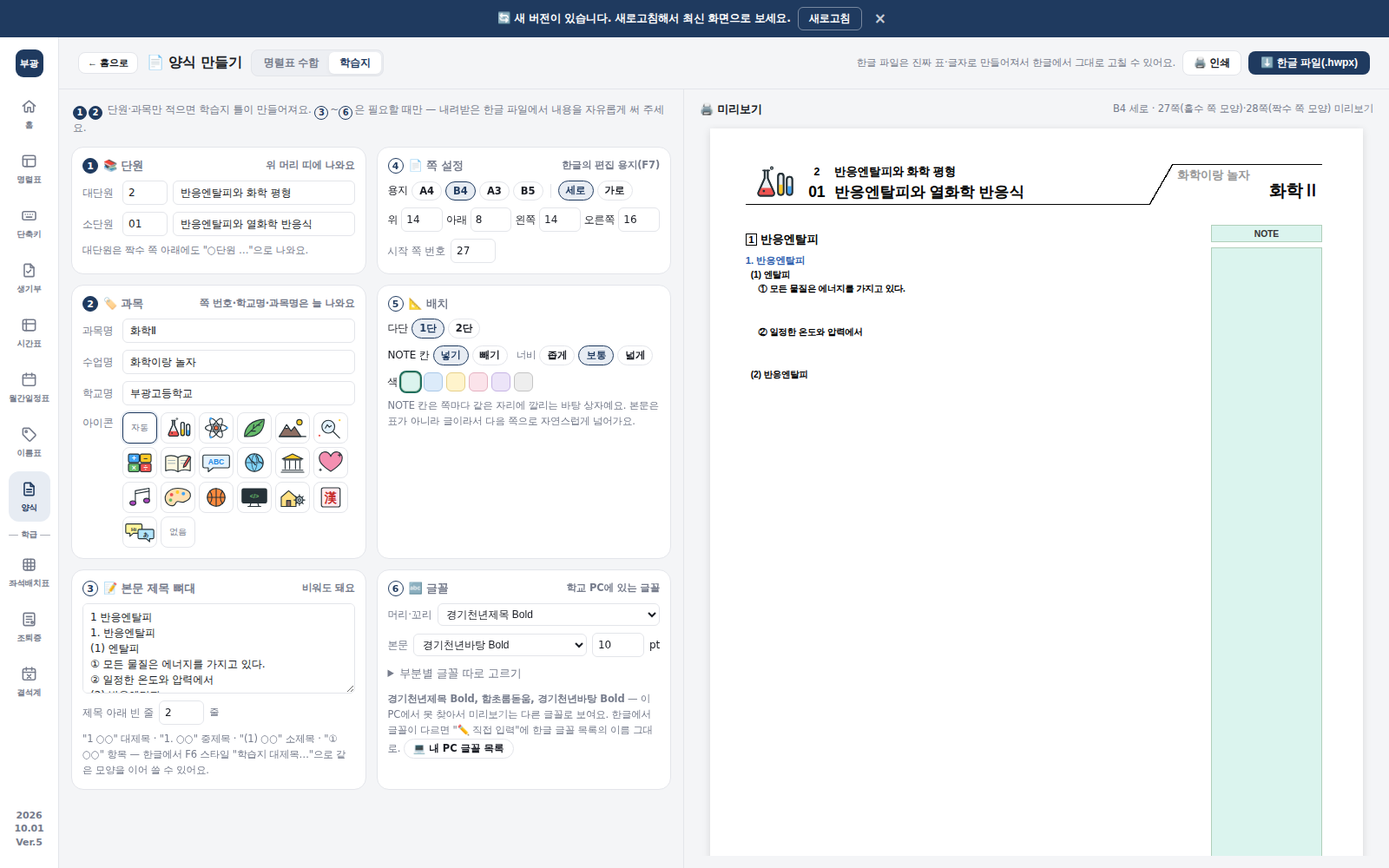
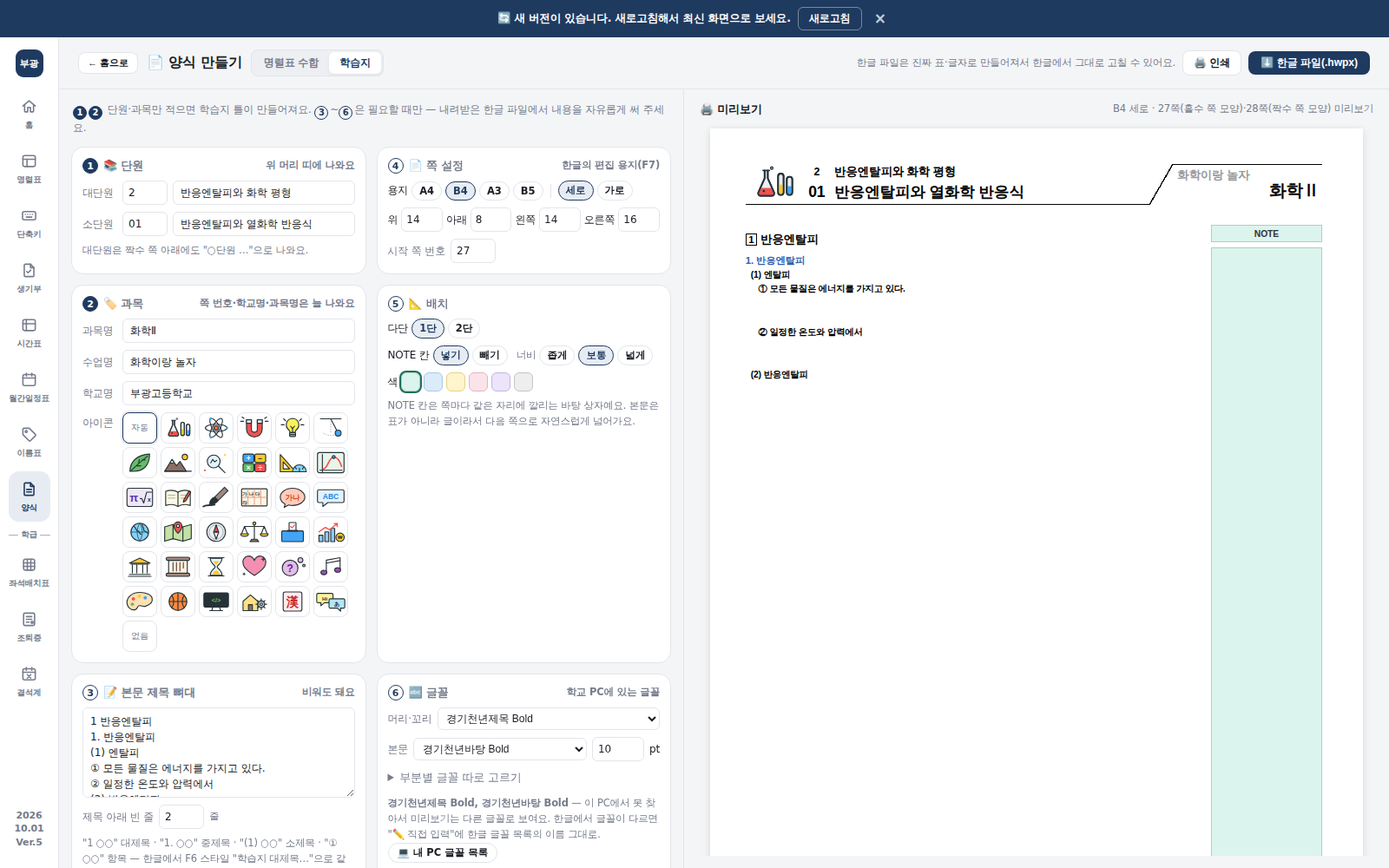
학습지 틀: 2단 가운데 선 있음/없음, 과목 아이콘 17개 추가(물리·수학·국어·지리·일반사회·정치·경제·역사·윤리), 기본 A4·여백 15mm·쪽 번호 글꼴 머리·꼬리와 같게
Claude-Session: https://claude.ai/code/session_01JoAvTsb4Mjqm7XhsGTMKbw

diff --git a/index.html b/index.html
@@ -13052,15 +13052,32 @@
   const WS_ICONS = [
     ['chem', '화학', '<path d="M34 14h16M38 14v20L22 70a6 6 0 0 0 5 8h30a6 6 0 0 0 5-8L46 34V14" fill="#E9EEF1" ' + WS_K + '/><path d="M27 58h30l5 12a6 6 0 0 1-5 8H27a6 6 0 0 1-5-8z" fill="#EF5350"/><path d="M38 14v20L22 70a6 6 0 0 0 5 8h30a6 6 0 0 0 5-8L46 34V14" fill="none" ' + WS_K + '/><rect x="72" y="22" width="14" height="54" rx="7" fill="#E9EEF1" ' + WS_K + '/><path d="M74 50h10v19a5 5 0 0 1-10 0z" fill="#FFCA28"/><rect x="72" y="22" width="14" height="54" rx="7" fill="none" ' + WS_K + '/><rect x="94" y="30" width="14" height="46" rx="7" fill="#E9EEF1" ' + WS_K + '/><path d="M96 54h10v15a5 5 0 0 1-10 0z" fill="#42A5F5"/><rect x="94" y="30" width="14" height="46" rx="7" fill="none" ' + WS_K + '/><circle cx="36" cy="66" r="3" fill="#263238"/><circle cx="56" cy="8" r="3" fill="none" stroke="#263238" stroke-width="3"/>'],
     ['phys', '물리', '<ellipse cx="60" cy="45" rx="44" ry="15" fill="none" ' + WS_K + '/><ellipse cx="60" cy="45" rx="44" ry="15" transform="rotate(60 60 45)" fill="none" ' + WS_K + '/><ellipse cx="60" cy="45" rx="44" ry="15" transform="rotate(-60 60 45)" fill="none" ' + WS_K + '/><circle cx="60" cy="45" r="9" fill="#FF7043" ' + WS_K + '/><circle cx="104" cy="45" r="5" fill="#42A5F5"/><circle cx="38" cy="83" r="5" fill="#42A5F5"/><circle cx="38" cy="7" r="5" fill="#42A5F5"/>'],
+    ['phys2', '물리(자석)', '<path d="M28 12v38a32 32 0 0 0 64 0V12H72v38a12 12 0 0 1-24 0V12z" fill="#EF5350" ' + WS_K + '/><path d="M28 12h20v14H28zM72 12h20v14H72z" fill="#ECEFF1" ' + WS_K + '/><path d="M16 18H4M116 18h-12M18 6l-8-5M102 6l8-5" ' + WS_K + '/>'],
+    ['phys3', '물리(전구)', '<path d="M60 6a26 26 0 0 0-16 46c4 4 6 8 6 12h20c0-4 2-8 6-12A26 26 0 0 0 60 6z" fill="#FFEE58" ' + WS_K + '/><rect x="48" y="64" width="24" height="16" rx="3" fill="#B0BEC5" ' + WS_K + '/><path d="M50 72h20M52 38l8 10 8-10M60 48v16" fill="none" ' + WS_K + '/><path d="M14 32h12M94 32h12M24 8l8 8M96 8l-8 8" ' + WS_K + '/>'],
+    ['phys4', '물리(진자)', '<path d="M18 8h84" ' + WS_K + ' stroke-width="7"/><path d="M60 8v60" stroke="#90A4AE" stroke-width="3" stroke-dasharray="5 5"/><path d="M30 66Q60 86 90 66" fill="none" stroke="#90A4AE" stroke-width="3" stroke-dasharray="5 5"/><path d="M60 8l28 54" ' + WS_K + '/><circle cx="90" cy="66" r="12" fill="#42A5F5" ' + WS_K + '/>'],
     ['bio', '생명과학', '<path d="M20 80C20 40 50 12 100 10c0 50-28 72-70 70z" fill="#66BB6A" ' + WS_K + '/><path d="M24 78C44 58 64 40 92 18M46 58h18M56 46l2-14M70 34h12" fill="none" ' + WS_K + '/>'],
     ['earth', '지구과학', '<circle cx="88" cy="22" r="11" fill="#FFCA28" ' + WS_K + '/><path d="M6 80l30-48 18 26 14-18 26 40z" fill="#8D6E63" ' + WS_K + '/><path d="M28 45l8-13 8 12-8 4z" fill="#FFFFFF" ' + WS_K + '/><path d="M6 80h108" ' + WS_K + '/>'],
     ['sci', '과학', '<circle cx="50" cy="40" r="26" fill="#E3F2FD" ' + WS_K + '/><path d="M70 60l26 26" ' + WS_K + ' stroke-width="9"/><path d="M38 46l8-14 8 10 8-6" fill="none" ' + WS_K + '/><circle cx="96" cy="14" r="4" fill="#FFCA28"/><circle cx="14" cy="76" r="4" fill="#EF5350"/>'],
     ['math', '수학', '<rect x="14" y="10" width="44" height="34" rx="6" fill="#42A5F5" ' + WS_K + '/><rect x="62" y="10" width="44" height="34" rx="6" fill="#FFCA28" ' + WS_K + '/><rect x="14" y="48" width="44" height="34" rx="6" fill="#66BB6A" ' + WS_K + '/><rect x="62" y="48" width="44" height="34" rx="6" fill="#EF5350" ' + WS_K + '/>' + WS_T(36, 38, '+', 30, '#fff') + WS_T(84, 38, '−', 30) + WS_T(36, 76, '×', 30, '#fff') + WS_T(84, 76, '÷', 30, '#fff')],
+    ['math2', '수학(자·각도기)', '<path d="M10 82V12l62 70z" fill="#FFCA28" ' + WS_K + '/><path d="M22 70V42l26 28z" fill="#FFFFFF" ' + WS_K + '/><path d="M60 82a28 28 0 0 1 56 0z" fill="#81D4FA" ' + WS_K + '/><path d="M88 82V68M70 64l6 6M106 64l-6 6" ' + WS_K + '/>'],
+    ['math3', '수학(그래프)', '<rect x="6" y="4" width="108" height="82" rx="8" fill="#E8F5E9" ' + WS_K + '/><path d="M16 76h90M26 82V12" fill="none" ' + WS_K + '/><path d="M30 70C48 70 52 22 72 22s28 26 32 38" fill="none" stroke="#EF5350" stroke-width="6" stroke-linecap="round"/><circle cx="72" cy="22" r="6" fill="#42A5F5" ' + WS_K + '/>'],
+    ['math4', '수학(π·√)', '<rect x="8" y="8" width="104" height="74" rx="10" fill="#EDE7F6" ' + WS_K + '/>' + WS_T(36, 64, 'π', 46, '#5E35B1') + '<path d="M62 50h6l8 18 12-44h20" fill="none" ' + WS_K + '/>' + WS_T(98, 62, 'x', 24) + ''],
     ['kor', '국어', '<path d="M10 20c18-6 34-6 50 4 16-10 32-10 50-4v58c-18-6-34-6-50 4-16-10-32-10-50-4z" fill="#FFF8E1" ' + WS_K + '/><path d="M60 24v58" ' + WS_K + '/><path d="M20 36h28M20 48h28M72 36h28M72 48h20" stroke="#90A4AE" stroke-width="3" stroke-linecap="round"/><path d="M84 54l20-34 8 5-20 34-10 5z" fill="#EF5350" ' + WS_K + '/>'],
+    ['kor2', '국어(붓)', '<path d="M94 4l14 14-40 40-14-14z" fill="#A1887F" ' + WS_K + '/><path d="M54 44l14 14c-6 10-22 16-34 14 0-14 8-24 20-28z" fill="#263238" ' + WS_K + '/><path d="M8 82c16-10 30-2 46-8" fill="none" stroke="#263238" stroke-width="7" stroke-linecap="round"/>'],
+    ['kor3', '국어(원고지)', '<rect x="8" y="10" width="104" height="70" rx="4" fill="#FFF8E1" ' + WS_K + '/><path d="M34 10v70M60 10v70M86 10v70M8 45h104" stroke="#E57373" stroke-width="2.5"/>' + WS_T(21, 37, '가', 20) + WS_T(47, 37, '나', 20) + WS_T(73, 37, '다', 20) + WS_T(21, 72, '라', 20) + ''],
+    ['kor4', '국어(말)', '<path d="M60 8C32 8 10 24 10 44c0 12 8 22 20 28l-4 14 18-10c5 1 10 2 16 2 28 0 50-16 50-34S88 8 60 8z" fill="#FFCCBC" ' + WS_K + '/>' + WS_T(60, 56, '가나', 30, '#D84315') + ''],
     ['eng', '영어', '<path d="M12 14h96a6 6 0 0 1 6 6v40a6 6 0 0 1-6 6H48L28 82V66H12a6 6 0 0 1-6-6V20a6 6 0 0 1 6-6z" fill="#E3F2FD" ' + WS_K + '/>' + WS_T(60, 52, 'ABC', 30, '#1E88E5')],
     ['soc', '사회', '<circle cx="60" cy="45" r="36" fill="#81D4FA" ' + WS_K + '/><path d="M36 22c10 4 6 16 16 18s4 14 14 14M70 12c-4 10 8 12 6 22s14 6 16 16" fill="none" ' + WS_K + '/><path d="M24 45h72M60 9c-14 20-14 52 0 72M60 9c14 20 14 52 0 72" fill="none" stroke="#263238" stroke-width="2.5"/>'],
+    ['geo', '지리(지도)', '<path d="M6 24l34-10 40 10 34-10v58l-34 10-40-10-34 10z" fill="#C5E1A5" ' + WS_K + '/><path d="M40 14v58M80 24v58" fill="none" ' + WS_K + '/><path d="M60 4a16 16 0 0 0-16 16c0 14 16 30 16 30s16-16 16-30A16 16 0 0 0 60 4z" fill="#EF5350" ' + WS_K + '/><circle cx="60" cy="20" r="6" fill="#FFFFFF" ' + WS_K + '/>'],
+    ['geo2', '지리(나침반)', '<circle cx="60" cy="45" r="38" fill="#ECEFF1" ' + WS_K + '/><circle cx="60" cy="45" r="29" fill="none" stroke="#90A4AE" stroke-width="3"/><path d="M60 16l10 29H50z" fill="#EF5350" ' + WS_K + '/><path d="M60 74l10-29H50z" fill="#FFFFFF" ' + WS_K + '/><circle cx="60" cy="45" r="4" fill="#263238"/>'],
+    ['law', '일반사회(법)', '<path d="M60 12v62M20 22h80" ' + WS_K + '/><path d="M20 22L8 52M20 22l12 30M100 22L88 52M100 22l12 30" ' + WS_K + ' stroke-width="3"/><path d="M4 52a16 10 0 0 0 32 0zM84 52a16 10 0 0 0 32 0z" fill="#FFCA28" ' + WS_K + '/><circle cx="60" cy="10" r="6" fill="#FFCA28" ' + WS_K + '/><path d="M42 84h36l-8-10H50z" fill="#8D6E63" ' + WS_K + '/>'],
+    ['pol', '정치(투표)', '<rect x="46" y="6" width="28" height="38" rx="2" fill="#FFFFFF" ' + WS_K + '/><path d="M52 22l6 6 10-12" fill="none" stroke="#EF5350" stroke-width="4" stroke-linecap="round" stroke-linejoin="round"/><rect x="16" y="40" width="88" height="44" rx="4" fill="#42A5F5" ' + WS_K + '/><path d="M40 40h40" stroke="#263238" stroke-width="7" stroke-linecap="round"/>'],
+    ['econ', '경제', '<rect x="12" y="58" width="16" height="26" fill="#90CAF9" ' + WS_K + '/><rect x="36" y="44" width="16" height="40" fill="#90CAF9" ' + WS_K + '/><rect x="60" y="30" width="16" height="54" fill="#90CAF9" ' + WS_K + '/><path d="M12 44l26-18 18 10 30-26M74 10h12v12" fill="none" stroke="#EF5350" stroke-width="5" stroke-linecap="round" stroke-linejoin="round"/><circle cx="98" cy="66" r="17" fill="#FFCA28" ' + WS_K + '/>' + WS_T(98, 74, '₩', 20) + ''],
     ['hist', '역사', '<path d="M18 30L60 10l42 20z" fill="#FFCA28" ' + WS_K + '/><path d="M24 34h72M30 38v32M48 38v32M72 38v32M90 38v32M18 76h84M14 84h92" fill="none" ' + WS_K + '/>'],
+    ['hist2', '역사(두루마리)', '<rect x="22" y="14" width="76" height="62" fill="#FFF3E0" ' + WS_K + '/><path d="M40 28v34M54 28v34M68 28v34M82 28v22" stroke="#5D4037" stroke-width="4" stroke-linecap="round"/><rect x="12" y="6" width="96" height="13" rx="6.5" fill="#A1887F" ' + WS_K + '/><rect x="12" y="71" width="96" height="13" rx="6.5" fill="#A1887F" ' + WS_K + '/>'],
+    ['hist3', '역사(모래시계)', '<path d="M36 10c0 22 20 28 20 35S36 58 36 80h48c0-22-20-28-20-35s20-13 20-35z" fill="#E3F2FD" ' + WS_K + '/><path d="M44 76c4-12 12-16 16-16s12 4 16 16zM48 22h24c-4 8-10 12-12 16-2-4-8-8-12-16z" fill="#FFCA28"/><path d="M28 8h64M28 82h64" ' + WS_K + ' stroke-width="7"/>'],
     ['ethic', '윤리', '<path d="M60 80S14 54 14 30a20 20 0 0 1 46-10 20 20 0 0 1 46 10c0 24-46 50-46 50z" fill="#F48FB1" ' + WS_K + '/><path d="M96 8v12M90 14h12M18 70v8M14 74h8" ' + WS_K + '/>'],
+    ['ethic2', '윤리(생각)', '<circle cx="50" cy="50" r="32" fill="#E1BEE7" ' + WS_K + '/>' + WS_T(50, 66, '?', 44, '#6A1B9A') + '<circle cx="92" cy="18" r="10" fill="#E1BEE7" ' + WS_K + '/><circle cx="106" cy="40" r="5" fill="#E1BEE7" ' + WS_K + '/>'],
     ['music', '음악', '<path d="M42 66V18l56-10v48" fill="none" ' + WS_K + '/><path d="M42 30l56-10" ' + WS_K + ' stroke-width="7"/><ellipse cx="32" cy="68" rx="12" ry="9" fill="#AB47BC" ' + WS_K + '/><ellipse cx="88" cy="58" rx="12" ry="9" fill="#AB47BC" ' + WS_K + '/>'],
     ['art', '미술', '<path d="M60 8C30 8 8 26 8 48s18 34 34 30c10-2 6-14 16-16s16 6 26 2c18-6 30-18 26-34C106 18 86 8 60 8z" fill="#FFE0B2" ' + WS_K + '/><circle cx="34" cy="34" r="7" fill="#EF5350"/><circle cx="58" cy="24" r="7" fill="#FFCA28"/><circle cx="82" cy="30" r="7" fill="#42A5F5"/><circle cx="30" cy="56" r="7" fill="#66BB6A"/>'],
     ['pe', '체육', '<circle cx="60" cy="45" r="36" fill="#FF8A3D" ' + WS_K + '/><path d="M24 45h72M60 9v72M34 20c12 14 12 36 0 50M86 20c-12 14-12 36 0 50" fill="none" ' + WS_K + '/>'],
@@ -13071,24 +13088,22 @@
   ];
   // 과목명으로 아이콘 고르기(직접 고르면 그대로)
   const WS_ICON_WORDS = [['chem', '화학'], ['phys', '물리'], ['bio', '생명|생물'], ['earth', '지구'], ['math', '수학|미적|기하|확률|통계'], ['kor', '국어|문학|독서|화법|작문|언어'],
-    ['eng', '영어|English'], ['hist', '역사|한국사|세계사|동아시아'], ['soc', '사회|지리|경제|정치|법|통합사회'], ['ethic', '윤리|도덕|철학'], ['music', '음악'], ['art', '미술'],
+    ['eng', '영어|English'], ['hist', '역사|한국사|세계사|동아시아'], ['geo', '지리|여행'], ['econ', '경제|금융'], ['law', '법|정치'], ['soc', '사회|통합사회'], ['ethic', '윤리|도덕|철학'], ['music', '음악'], ['art', '미술'],
     ['pe', '체육|운동|스포츠'], ['info', '정보|컴퓨터|프로그래밍|AI|인공지능'], ['tech', '기술|가정|공학'], ['hanja', '한문'], ['lang', '일본어|중국어|독일어|프랑스어|스페인어|러시아어|아랍어|베트남어'], ['sci', '과학|탐구|실험']];
   function wsAutoIcon(subj) { const s = String(subj || ''); const hit = WS_ICON_WORDS.find(function(w) { return new RegExp(w[1]).test(s); }); return hit ? hit[0] : 'sci'; }
   function wsIconSvg(k, w, h) { const ic = WS_ICONS.find(function(x) { return x[0] === k; }); return ic ? '<svg xmlns="http://www.w3.org/2000/svg" viewBox="0 0 120 90"' + (w ? ' width="' + w + '" height="' + h + '"' : '') + '>' + ic[2] + '</svg>' : ''; }
   const WS_DEFAULT = {
     uNo: '1', uName: '', sNo: '01', sName: '', subj: '', cls: '', school: null, icon: 'auto', outline: '', gap: 2,
-    paper: 'B4', land: false, mT: 14, mB: 8, mL: 14, mR: 16, start: 1, colsN: 1, note: true, noteW: 44, theme: 'mint',
+    paper: 'A4', land: false, mT: 15, mB: 15, mL: 15, mR: 15, start: 1, colsN: 1, colLine: true, note: true, noteW: 44, theme: 'mint',
     tFont: '경기천년제목 Bold', bFont: '경기천년바탕 Bold', bSize: 10, // 원본 학습지 글꼴(머리·꼬리 / 본문)
   };
-  const WS_NUM_FONT = '함초롬돋움'; // 쪽 번호(원본처럼)
-  // 부분별 글꼴(비우면 머리·꼬리 글꼴, 쪽 번호는 함초롬돋움)
+  // 부분별 글꼴(비우면 머리·꼬리 글꼴)
   const WS_FPARTS = [['uno', '대단원'], ['sno', '소단원'], ['cls', '수업명'], ['subj', '과목명'], ['foot', '꼬리 글'], ['num', '쪽 번호'], ['note', 'NOTE']];
   // 그 부분에 쓸 글꼴: { n: 미리보기용 이름, h: 한글 파일에 적을 이름 } — 직접 입력한 이름은 적은 그대로
   function wsFont(c, part) {
     let n, cu;
     if (part === 'body') { n = c.bFont; cu = c.bFontC; }
     else if (c.fp[part]) { n = c.fp[part]; cu = c.fpC[part]; }
-    else if (part === 'num') { n = WS_NUM_FONT; cu = false; }
     else { n = c.tFont; cu = c.tFontC; }
     return { n: n, h: cu ? n : fmHwpFont(n) };
   }
@@ -13101,8 +13116,8 @@
     const c = Object.assign({}, WS_DEFAULT, v);
     if (c.school == null) { const el = document.getElementById('ms-cfg-school'); c.school = (el && el.value) || ''; } // 처음엔 월간일정표의 학교명
     ['uNo', 'uName', 'sNo', 'sName', 'subj', 'cls', 'school', 'outline'].forEach(function(k) { c[k] = String(c[k] == null ? '' : c[k]); });
-    if (!FM_PAPERS[c.paper]) c.paper = 'B4';
-    c.land = !!c.land; c.note = c.note !== false;
+    if (!FM_PAPERS[c.paper]) c.paper = 'A4';
+    c.land = !!c.land; c.note = c.note !== false; c.colLine = c.colLine !== false;
     ['mT', 'mB', 'mL', 'mR'].forEach(function(k) { c[k] = ntNum(c[k], 0, 40, WS_DEFAULT[k]); });
     c.start = Math.round(ntNum(c.start, 1, 999, 1)); c.gap = Math.round(ntNum(c.gap, 0, 20, 2));
     c.colsN = c.colsN === 2 || c.colsN === '2' ? 2 : 1;
@@ -13237,7 +13252,7 @@
       const inner = first ? lines.map(function(x) {
         return '<div style="' + F('body') + ' font-size:' + sz[x.lv] + 'pt; ' + st[x.lv] + (x.lv === 'h1' ? ' margin-top:2mm;' : x.lv === 'h2' ? ' margin-top:1.5mm;' : '') + '">' + txt(x) + '</div>';
       }).join('') : '';
-      return '<div class="ws-abs ws-body" style="' + abs(L.bodyX, L.bodyTop, L.bodyW, L.bodyH) + (c.colsN > 1 ? ' column-count:2; column-gap:8mm; column-rule:0.12mm solid #ccc;' : '') + '">' + inner + '</div>';
+      return '<div class="ws-abs ws-body" style="' + abs(L.bodyX, L.bodyTop, L.bodyW, L.bodyH) + (c.colsN > 1 ? ' column-count:2; column-gap:8mm;' + (c.colLine ? ' column-rule:0.12mm solid #bbb;' : '') : '') + '">' + inner + '</div>';
     };
     const sheet = function(n, first) {
       return '<div class="fm-sheet ws-sheet" data-page="' + n + '" style="width:' + L.w + 'mm; height:' + L.h + 'mm;">' + band + note + body(first) + foot(n) + '</div>';
@@ -13267,7 +13282,10 @@
     }).join('') + '<span class="fm-sep" style="width:1px;height:16px;background:var(--border-color);margin:0 4px;"></span>' +
       [[false, '세로'], [true, '가로']].map(function(o) { return chip(c.land === o[0], 'data-land="' + (o[0] ? 1 : 0) + '" onclick="wsSet({ land: ' + o[0] + ' }, true)"', o[1]); }).join('');
     document.querySelectorAll('#ws-margins input').forEach(function(inp) { if (document.activeElement !== inp) inp.value = c[inp.dataset.k]; });
-    document.getElementById('ws-colsn').innerHTML = '다단 ' + [1, 2].map(function(n) { return chip(c.colsN === n, 'data-v="' + n + '" onclick="wsSet({ colsN: ' + n + ' }, true)"', n + '단'); }).join('');
+    document.getElementById('ws-colsn').innerHTML = '다단 ' + [1, 2].map(function(n) { return chip(c.colsN === n, 'data-v="' + n + '" onclick="wsSet({ colsN: ' + n + ' }, true)"', n + '단'); }).join('') +
+      (c.colsN > 1 ? '<span class="nt-muted" style="margin-left:6px;">가운데 선</span>' + [[true, '있음'], [false, '없음']].map(function(o) {
+        return chip(c.colLine === o[0], 'data-cl="' + (o[0] ? 1 : 0) + '" onclick="wsSet({ colLine: ' + o[0] + ' }, true)"', o[1], '두 단 사이 세로선');
+      }).join('') : '');
     document.getElementById('ws-note').innerHTML = 'NOTE 칸 ' + chip(c.note, 'data-note="1" onclick="wsSet({ note: true }, true)"', '넣기') + chip(!c.note, 'data-note="0" onclick="wsSet({ note: false }, true)"', '빼기') +
       (c.note ? '<span class="nt-muted" style="margin-left:6px;">너비</span>' + [[36, '좁게'], [44, '보통'], [54, '넓게']].map(function(o) { return chip(c.noteW === o[0], 'data-nw="' + o[0] + '" onclick="wsSet({ noteW: ' + o[0] + ' }, true)"', o[1], o[0] + 'mm'); }).join('') : '');
     document.getElementById('ws-theme').innerHTML = '색 ' + WS_THEMES.map(function(t) {
@@ -13293,7 +13311,7 @@
       return '<div class="nt-row fm-fontrow"><span class="fm-fl">' + x[1] + '</span><select id="ws-fp-' + x[0] + '" class="mini-select" onchange="wsOnFontPick(\'' + x[0] + '\', this.value)"></select></div>' +
         '<input type="text" id="ws-fp-' + x[0] + '-custom" class="lp-input" list="fm-local-fonts" style="display:none;" placeholder="' + x[1] + ' 글꼴 이름 (한글 글꼴 목록에 보이는 그대로)" oninput="wsOnFontCustom(\'' + x[0] + '\', this.value)">';
     }).join('');
-    WS_FPARTS.forEach(function(x) { fillSel('ws-fp-' + x[0], 'ws-fp-' + x[0] + '-custom', c.fp[x[0]] || '', c.fpC[x[0]], x[0] === 'num' ? '함초롬돋움 (원본처럼)' : '머리·꼬리와 같게'); });
+    WS_FPARTS.forEach(function(x) { fillSel('ws-fp-' + x[0], 'ws-fp-' + x[0] + '-custom', c.fp[x[0]] || '', c.fpC[x[0]], '머리·꼬리와 같게'); });
     if (Object.keys(c.fp).length) document.getElementById('ws-fparts').open = true;
     wsFontMsg(c);
   }
@@ -13438,7 +13456,7 @@
     const secPr = sec0.match(/<hp:secPr[\s\S]*?<\/hp:secPr>/)[0]
       .replace(/<hp:pagePr [^>]*>/, function(m) { return m.replace(/landscape="\w+"/, 'landscape="' + (c.land ? 'NARROWLY' : 'WIDELY') + '"').replace(/ width="\d+"/, ' width="' + hu(L.pw) + '"').replace(/ height="\d+"/, ' height="' + hu(L.ph) + '"'); })
       .replace(/<hp:margin [^>]*\/>/, '<hp:margin header="' + hu(L.headH) + '" footer="' + hu(L.footH) + '" gutter="0" left="' + hu(c.mL) + '" right="' + hu(c.mR + (L.note ? L.note.w + 4 : 0)) + '" top="' + hu(c.mT) + '" bottom="' + hu(c.mB) + '"/>');
-    const colPr = '<hp:ctrl><hp:colPr id="" type="NEWSPAPER" layout="LEFT" colCount="' + c.colsN + '" sameSz="1" sameGap="' + (c.colsN > 1 ? hu(8) : 0) + '">' + (c.colsN > 1 ? '<hp:colLine type="SOLID" width="0.12 mm" color="#BBBBBB"/>' : '') + '</hp:colPr></hp:ctrl>';
+    const colPr = '<hp:ctrl><hp:colPr id="" type="NEWSPAPER" layout="LEFT" colCount="' + c.colsN + '" sameSz="1" sameGap="' + (c.colsN > 1 ? hu(8) : 0) + '">' + (c.colsN > 1 && c.colLine ? '<hp:colLine type="SOLID" width="0.12 mm" color="#BBBBBB"/>' : '') + '</hp:colPr></hp:ctrl>';
     const ctrls = secPr + colPr + hf('header', 1, 'BOTH', bandXml + noteXml + T(''), L.headH) + hf('footer', 2, 'ODD', footTbl(true) + T(''), L.footH) + hf('footer', 3, 'EVEN', footTbl(false) + T(''), L.footH) +
       '<hp:ctrl><hp:newNum num="' + c.start + '" numType="PAGE"/></hp:ctrl>';
     const lines = wsLines(c);

diff --git a/tools/tests/forms-test.js b/tools/tests/forms-test.js
@@ -597,6 +597,12 @@ const setText = (P, sel, v) => P.evaluate(([sel, v]) => { const el = document.qu
   const W = t1.page;
   await W.click('#fm-kind-switch [data-kind="ws"]'); await W.waitForTimeout(400);
   check('학습지 탭: 학습지 입력칸이 보이고 명렬표 칸·엑셀 버튼은 숨김', await W.isVisible('#ws-grid') && !(await W.isVisible('#fm-grid')) && !(await W.isVisible('#fm-xlsx-btn')) && (await cfgOf(t1)).kind === 'ws');
+  const wsDef = await W.evaluate(() => { const c = wsCfg(); return { paper: c.paper, m: [c.mT, c.mB, c.mL, c.mR].join(), w: document.querySelector('#fm-pages .ws-sheet').style.width, num: wsFont(c, 'num').h, t: wsFont(c, 'uno').h,
+    numOpt: document.querySelector('#ws-fp-num option').textContent }; });
+  check('학습지 기본: A4, 여백 모두 15mm, 쪽 번호 글꼴은 머리·꼬리와 같게', wsDef.paper === 'A4' && wsDef.m === '15,15,15,15' && wsDef.w === '210mm' && wsDef.num === wsDef.t && wsDef.numOpt === '머리·꼬리와 같게', wsDef);
+  // 아래 검사는 원본 학습지 모양(B4, 여백 위14·아래8·왼14·오른16)으로
+  await W.click('#ws-paper [data-paper="B4"]');
+  for (const [k, v] of [['mT', '14'], ['mB', '8'], ['mL', '14'], ['mR', '16']]) await setText(W, '#ws-margins input[data-k="' + k + '"]', v);
   await setText(W, '#ws-uno', '2'); await setText(W, '#ws-uname', '반응엔탈피와 화학 평형');
   await setText(W, '#ws-sno', '01'); await setText(W, '#ws-sname', '반응엔탈피와 열화학 반응식');
   await setText(W, '#ws-subj', '화학Ⅱ'); await setText(W, '#ws-cls', '화학이랑 놀자'); await setText(W, '#ws-school', '부광고등학교');
@@ -620,7 +626,14 @@ const setText = (P, sel, v) => P.evaluate(([sel, v]) => { const el = document.qu
   const noNote = await W.evaluate(() => ({ note: !!document.querySelector('#fm-pages .ws-note'), bw: parseFloat(document.querySelector('#fm-pages .ws-body').style.width) }));
   check('NOTE 빼기 → NOTE 상자 없고 본문이 넓어짐(257 − 14 − 16 = 227mm)', !noNote.note && Math.abs(noNote.bw - 227) < 0.01, noNote);
   await W.click('#ws-note [data-note="1"]'); await W.click('#ws-colsn [data-v="2"]'); await W.waitForTimeout(200);
-  check('2단 + NOTE: 본문이 두 단', await W.evaluate(() => getComputedStyle(document.querySelector('#fm-pages .ws-body')).columnCount) === '2');
+  check('2단 + NOTE: 본문이 두 단, 가운데 선 있음(기본)', await W.evaluate(() => { const cs = getComputedStyle(document.querySelector('#fm-pages .ws-body')); return cs.columnCount === '2' && cs.columnRuleStyle === 'solid'; }));
+  await W.click('#ws-colsn [data-cl="0"]'); await W.waitForTimeout(200);
+  const noLine = await W.evaluate(async () => ({ rule: getComputedStyle(document.querySelector('#fm-pages .ws-body')).columnRuleStyle, cfg: wsCfg().colLine,
+    hwp: typeof JSZip === 'undefined' ? null : /<hp:colLine/.test(await (await JSZip.loadAsync(await wsBuildHwpx(wsCfg()))).file('Contents/section0.xml').async('string')) }));
+  check('가운데 선 "없음" → 미리보기·한글 파일 모두 선 없음', noLine.rule === 'none' && noLine.cfg === false && noLine.hwp !== true, noLine);
+  await W.click('#ws-colsn [data-cl="1"]'); await W.waitForTimeout(200);
+  const autoIc = await W.evaluate(() => ['한국지리', '정치와 법', '경제', '사회·문화', '생활과 윤리', '물리학Ⅰ', '확률과 통계'].map(wsAutoIcon).join());
+  check('아이콘 35개, 과목명 자동: 지리→지도, 정치와 법→저울, 경제→경제, 사회·문화→사회, 윤리, 물리, 수학', await W.evaluate(() => WS_ICONS.length) === 35 && autoIc === 'geo,law,econ,soc,ethic,phys,math', autoIc);
   if (JSZIP_JS) {
     const wz = await W.evaluate(async () => { const zip = await JSZip.loadAsync(await wsBuildHwpx(wsCfg())); const names = Object.keys(zip.files);
       const sec = await zip.file('Contents/section0.xml').async('string'), head = await zip.file('Contents/header.xml').async('string'), hpf = await zip.file('Contents/content.hpf').async('string');
@@ -638,9 +651,9 @@ const setText = (P, sel, v) => P.evaluate(([sel, v]) => { const el = document.qu
       const cp = (id) => { const x = head.match(new RegExp('<hh:charPr id="' + id + '"[\\s\\S]*?</hh:charPr>'))[0]; return { face: faces[x.match(/hangul="(\d+)"/)[1]], pt: +x.match(/height="(\d+)"/)[1] / 100, bold: x.includes('<hh:bold/>') }; };
       const runOf = (t) => cp(sec.match(new RegExp('<hp:run charPrIDRef="(\\d+)"><hp:t>' + t))[1]);
       return { school: runOf('부광고등학교'), subj: runOf('화학Ⅱ'), sName: runOf('반응엔탈피와 열화학 반응식'), h2: runOf('1\\. 반응엔탈피'), num: cp(sec.match(/<hp:run charPrIDRef="(\d+)"><hp:ctrl><hp:autoNum/)[1]) }; });
-    check('한글 파일 글꼴이 원본 학습지와 같음: 머리·꼬리 경기천년제목 Bold(진하게 겹치지 않음), 본문 경기천년바탕 Bold, 쪽 번호 함초롬돋움 16pt',
+    check('한글 파일 글꼴이 원본 학습지와 같음: 머리·꼬리 경기천년제목 Bold(진하게 겹치지 않음), 본문 경기천년바탕 Bold, 쪽 번호는 머리·꼬리와 같게 16pt',
       wf.school.face === '경기천년제목 Bold' && wf.school.pt === 9 && wf.subj.face === '경기천년제목 Bold' && !wf.subj.bold && wf.sName.face === '경기천년제목 Bold' && wf.sName.pt === 17 &&
-      wf.h2.face === '경기천년바탕 Bold' && !wf.h2.bold && wf.num.face === '함초롬돋움' && wf.num.pt === 16, wf);
+      wf.h2.face === '경기천년바탕 Bold' && !wf.h2.bold && wf.num.face === '경기천년제목 Bold' && wf.num.pt === 16, wf);
     check('한글 파일 위치는 머리말·꼬리말 문단 기준(종이 기준 쓰지 않음 — 한글이 여백만큼 밀어서), 머리 띠는 머리말 문단 바로 그 자리(0,0)', !wz.paperRel && /vertRelTo="PARA" horzRelTo="PARA"[^>]*vertOffset="0" horzOffset="0"/.test(wz.bandPos), wz.bandPos);
     // 크롬이 찾은 다른 이름("경기천년제목")이 설정에 저장돼 있어도 한글 파일엔 한글이 아는 "경기천년제목 Bold"로(예전엔 그대로 들어가 한글이 대체 글꼴로 그렸음)
     const alias = await W.evaluate(async () => { const keep = localStorage.getItem('fm-ws'); localStorage.setItem('fm-ws', JSON.stringify(Object.assign(JSON.parse(keep), { tFont: '경기천년제목' })));

diff --git a/docs/이어서-작업하기.md b/docs/이어서-작업하기.md
@@ -302,6 +302,11 @@ MCP로 직접 본 것: 상태 ACTIVE_HEALTHY, DB 16MB(가장 큰 표 user_backup
   직접 입력은 **적은 그대로** 한글 파일에(목록에서 고른 건 한글 이름 `fmHwpFont`). `fmHeaderAdd` 안의 이름 바꾸기는 빼고 호출하는 쪽에서(명렬표도 `tFontC/bFontC`면 그대로).
   ⑤ 💻 내 PC 글꼴 목록(`fmLoadLocalFonts`): 묶음 이름 + **전체 이름(fullName, 한글 목록에 보이는 이름)** 을 자동 완성에 넣고, 경기천년 글꼴이 있으면 정확한 이름을 알림으로 보여 줌. 두 화면 다 이 버튼이 늘 보임.
   forms-test 검사 2개 추가·1개 수정. **사용자 확인 필요: 학교 PC에서 💻 목록 결과(경기천년 글꼴 이름들), 한글에서 다시 열어 보기.**
+- **(피드백 5, 10/1 밤 — 사용자 "오케이 적용 된다" 후 요청 3가지, "이렇게 수정하면 거의 완성")**
+  ① ⑤ 배치: 2단일 때 **가운데 선 있음/없음**(설정 `colLine`, 기본 있음 — 미리보기 column-rule, 한글 `hp:colLine`). ② 아이콘 18 → **35개**: 물리(자석·전구·진자), 수학(자·각도기·그래프·π√),
+  국어(붓·원고지·말), 지리(지도·나침반), 일반사회(법·저울), 정치(투표), 경제, 역사(두루마리·모래시계), 윤리(생각). 자동 고르기 낱말: 지리→지도, 경제·금융→경제, 법·정치→저울(사회보다 먼저).
+  ③ **기본 용지 A4, 여백 모두 15mm**(사용자: B4로 두면 선생님들이 B4로 인쇄돼 놀람 — 본인은 내용 많아서 B4 씀), **쪽 번호 글꼴 기본 = 머리·꼬리와 같게**("함초롬돋움(원본처럼)" 없앰, `WS_NUM_FONT` 삭제 — 함초롬돋움은 목록에서 고르면 됨).
+  forms-test: 기본값 검사 후 B4·원본 여백으로 바꿔 나머지 검사, 가운데 선·아이콘 자동 검사 추가. **사용자 확인 필요: 거의 완성 — 한글에서 마지막 확인.**
 - **다음**: 수행평가 안내(`up` 원본: 제목·평가 영역(점수)·기간·제출·평가기준 표[평가요소·점수·평가기준]), 보고서 양식(화학 기사 탐구: 학번·이름 표 + 0~6 항목 제목) — 사용자와 하나씩.
 
 ---
